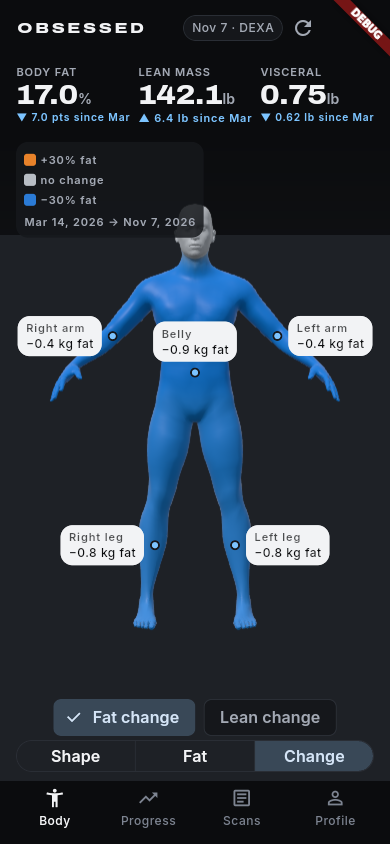
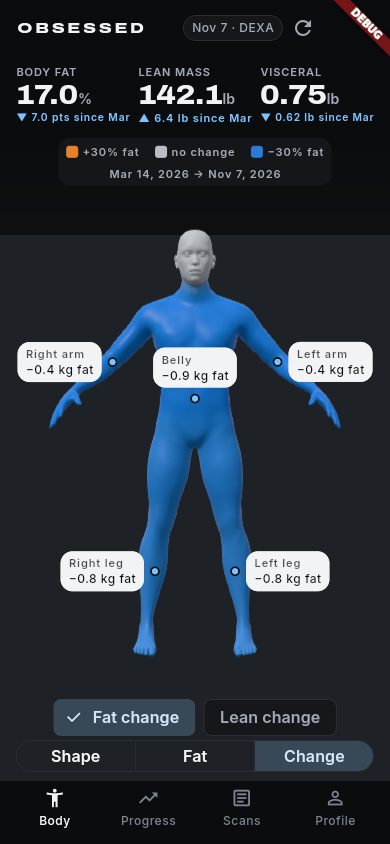
Body style polish: true Fat colours in Midnight, dark game mode, legend above the body
- Midnight with a heatmap dims the material only slightly, so Fat and
  Change colours match the legend instead of turning muddy.
- Game mode no longer overrides Midnight: the picker stays on, and with
  Midnight the Body tab is dark and the hologram uses its blue dark look.
- The heat legend is one strip above the body instead of a card over it,
  so the turning avatar never passes behind it.
- Screenshots updated, plus game mode with Midnight.

Claude-Session: https://claude.ai/code/session_01881r6wStWWazdPF3GVtggV

diff --git a/packages/app_body/lib/src/presentation/body_view.dart b/packages/app_body/lib/src/presentation/body_view.dart
@@ -286,6 +286,23 @@ class _BodyViewState extends ConsumerState<BodyView>
     final mapper = ref.watch(bodyMapperProvider).value;
     return Column(
       children: [
+        // Above the body, not over it, so a turning body never goes behind
+        // it.
+        if (metric != null && mapper != null)
+          Padding(
+            padding: const EdgeInsets.fromLTRB(
+              AppSpacing.md,
+              AppSpacing.xs,
+              AppSpacing.md,
+              0,
+            ),
+            child: _Legend(
+              metric: metric,
+              stops: mapper.legend(metric, pair.to.sex),
+              from: pair.from,
+              to: pair.to,
+            ),
+          ),
         Expanded(
           child: Stack(
             children: [
@@ -305,17 +322,6 @@ class _BodyViewState extends ConsumerState<BodyView>
               Positioned.fill(child: _scene()),
               if (view.selected == null && math.cos(_pose.azimuth).abs() > 0.6)
                 Positioned.fill(child: _pins(pair, view)),
-              if (metric != null && mapper != null)
-                Positioned(
-                  left: AppSpacing.md,
-                  top: AppSpacing.sm,
-                  child: _Legend(
-                    metric: metric,
-                    stops: mapper.legend(metric, pair.to.sex),
-                    from: pair.from,
-                    to: pair.to,
-                  ),
-                ),
               if (widget.showCompare)
                 Positioned(
                   right: AppSpacing.sm,
@@ -552,14 +558,19 @@ class _Legend extends StatelessWidget {
         ?.copyWith(color: tokens.textSecondary);
     final change = metric != HeatMetric.fatPct;
     return Container(
-      padding: const EdgeInsets.all(AppSpacing.sm),
+      padding: const EdgeInsets.symmetric(
+        horizontal: AppSpacing.sm,
+        vertical: AppSpacing.xs,
+      ),
       decoration: BoxDecoration(
         color: tokens.surface.withValues(alpha: 0.85),
         borderRadius: BorderRadius.circular(AppRadius.sm),
       ),
-      child: Column(
-        crossAxisAlignment: CrossAxisAlignment.start,
-        mainAxisSize: MainAxisSize.min,
+      child: Wrap(
+        spacing: AppSpacing.md,
+        runSpacing: AppSpacing.xs,
+        alignment: WrapAlignment.center,
+        crossAxisAlignment: WrapCrossAlignment.center,
         children: [
           for (final (i, s) in stops.reversed.indexed)
             Padding(
@@ -589,12 +600,9 @@ class _Legend extends StatelessWidget {
               ),
             ),
           if (change)
-            Padding(
-              padding: const EdgeInsets.only(top: AppSpacing.xs),
-              child: Text(
-                '${shortDate(from.scannedAt)} → ${shortDate(to.scannedAt)}',
-                style: text,
-              ),
+            Text(
+              '${shortDate(from.scannedAt)} → ${shortDate(to.scannedAt)}',
+              style: text,
             ),
         ],
       ),

diff --git a/app/test/helpers/pump_app.dart b/app/test/helpers/pump_app.dart
@@ -46,7 +46,8 @@ extension PumpApp on WidgetTester {
   /// backends. A signed-in [user] gets [profile], onboarded by default, and
   /// [scans] for the body. [bodySpec] false is a build without a BodySpec
   /// client id. [gameMode] turns on the Settings game mode and [bodyStyle]
-  /// is the saved body style.
+  /// is the saved body style. [renderer] lets a test see what the body was
+  /// asked to draw.
   Future<Fakes> pumpApp({
     AuthUser? user,
     Profile? profile,
@@ -56,6 +57,7 @@ extension PumpApp on WidgetTester {
     bool tallPhone = true,
     bool gameMode = false,
     BodyStyle? bodyStyle,
+    FakeBodyRenderer? renderer,
     Exception? profileError,
   }) async {
     if (tallPhone) useTallPhone();
@@ -79,7 +81,9 @@ extension PumpApp on WidgetTester {
           bodyStyleStoreProvider.overrideWithValue(
             _StyleStore(gameMode, bodyStyle),
           ),
-          bodyRendererFactoryProvider.overrideWithValue(FakeBodyRenderer.new),
+          bodyRendererFactoryProvider.overrideWithValue(
+            () => renderer ?? FakeBodyRenderer(),
+          ),
           scanRepositoryProvider.overrideWithValue(fakeDexa.scans),
           consentsRepositoryProvider.overrideWithValue(fakeDexa.consents),
           scanProviderProvider.overrideWithValue(

diff --git a/app/test/shell/app_shell_test.dart b/app/test/shell/app_shell_test.dart
@@ -7,6 +7,7 @@ import 'package:body_mapping/fixtures.dart';
 import 'package:flutter_test/flutter_test.dart';
 import 'package:material_ui/material_ui.dart';
 
+import '../helpers/fake_body_renderer.dart';
 import '../helpers/pump_app.dart';
 
 void main() {
@@ -64,6 +65,24 @@ void main() {
       expect(themeOf(SettingsPage), brightness);
     });
   }
+
+  testWidgets('Midnight keeps the Body tab dark in game mode', (tester) async {
+    final renderer = FakeBodyRenderer();
+    await tester.pumpApp(
+      user: user,
+      scans: sampleTimeline,
+      bodyStyle: BodyStyle.midnight,
+      gameMode: true,
+      renderer: renderer,
+    );
+    expect(
+      Theme.of(tester.element(find.byType(HomePage))).brightness,
+      Brightness.dark,
+    );
+    // The dark hologram look.
+    expect(renderer.style, BodyStyle.hologram);
+    expect(renderer.brightness, Brightness.dark);
+  });
 
   testWidgets('the tab bar fits a small phone', (tester) async {
     tester.view

diff --git a/app/lib/shell/app_shell.dart b/app/lib/shell/app_shell.dart
@@ -11,7 +11,8 @@ import 'package:material_ui/material_ui.dart';
 /// Each tab keeps its own navigation stack.
 ///
 /// With the Midnight body style, the Body tab (page and tab bar) is dark,
-/// like the website, whatever the phone's light/dark setting.
+/// like the website, whatever the phone's light/dark setting, in game mode
+/// too.
 class AppShell extends ConsumerWidget {
   const new(this.shell, {super.key});
 
@@ -22,7 +23,9 @@ class AppShell extends ConsumerWidget {
     final l10n = context.l10n;
     final midnight =
         shell.currentIndex == 0 &&
-        ref.watch(bodyStyleProvider) == BodyStyle.midnight;
+        // The picked style, not the drawn one: in game mode Midnight puts
+        // the hologram on the dark screen.
+        ref.watch(bodyStyleSettingProvider) == BodyStyle.midnight;
     final scaffold = Scaffold(
       body: shell,
       bottomNavigationBar: _TabBar(

diff --git a/packages/app_body/lib/src/presentation/body_style_setting.dart b/packages/app_body/lib/src/presentation/body_style_setting.dart
@@ -24,7 +24,7 @@ class BodyStyleSetting extends ConsumerWidget {
           title: const Text('Body style'),
           subtitle: Text(
             gameMode
-                ? 'Game mode shows your body as a hologram'
+                ? 'Midnight puts your hologram on a dark screen'
                 : 'How your 3D body looks',
           ),
         ),
@@ -36,9 +36,8 @@ class BodyStyleSetting extends ConsumerWidget {
           ],
           selected: {style},
           showSelectedIcon: false,
-          onSelectionChanged: gameMode
-              ? null
-              : (s) => ref.read(bodyStyleSettingProvider.notifier).set(s.first),
+          onSelectionChanged: (s) =>
+              ref.read(bodyStyleSettingProvider.notifier).set(s.first),
         ),
         const SizedBox(height: AppSpacing.md),
         SwitchListTile(

diff --git a/packages/app_body/lib/src/data/flutter_scene_body_renderer.dart b/packages/app_body/lib/src/data/flutter_scene_body_renderer.dart
@@ -312,11 +312,12 @@ class _Look {
           lightIntensity: dark ? 1.9 : 2.2,
           environment: dark ? 0.7 : 1.0,
         );
-      // Midnight stays a dark, glossy body in every view: the heatmap is
-      // tinted toward the same charcoal instead of painted on white.
+      // Midnight is a glossy body on a dark screen. With a heatmap the
+      // material is only slightly dimmed, so the colors still match the
+      // legend.
       case BodyStyle.midnight:
         return _Look(
-          baseColor: heat ? _lin(0.42, 0.44, 0.50) : _lin(0.20, 0.22, 0.26),
+          baseColor: heat ? _lin(0.85, 0.86, 0.88) : _lin(0.20, 0.22, 0.26),
           roughness: 0.28,
           clearcoat: 1,
           lightDirection: vm.Vector3(-0.5, -0.4, 0.75),

diff --git a/packages/app_body/test/src/body_view_test.dart b/packages/app_body/test/src/body_view_test.dart
@@ -415,10 +415,9 @@ void main() {
     await tester.tap(find.byKey(const Key('bodyStyle_gameMode')));
     await tester.pumpAndSettle();
     expect(store.gameMode, isTrue);
-    // Game mode draws the hologram, so the style picker is off meanwhile.
-    final picker = tester.widget<SegmentedButton<BodyStyle>>(
-      find.byKey(const Key('bodyStyle_toggle')),
-    );
-    expect(picker.onSelectionChanged, isNull);
+    // In game mode the picker still works: it picks the hologram's screen.
+    await tester.tap(find.text('Studio'));
+    await tester.pumpAndSettle();
+    expect(store.saved, BodyStyle.studio);
   });
 }
